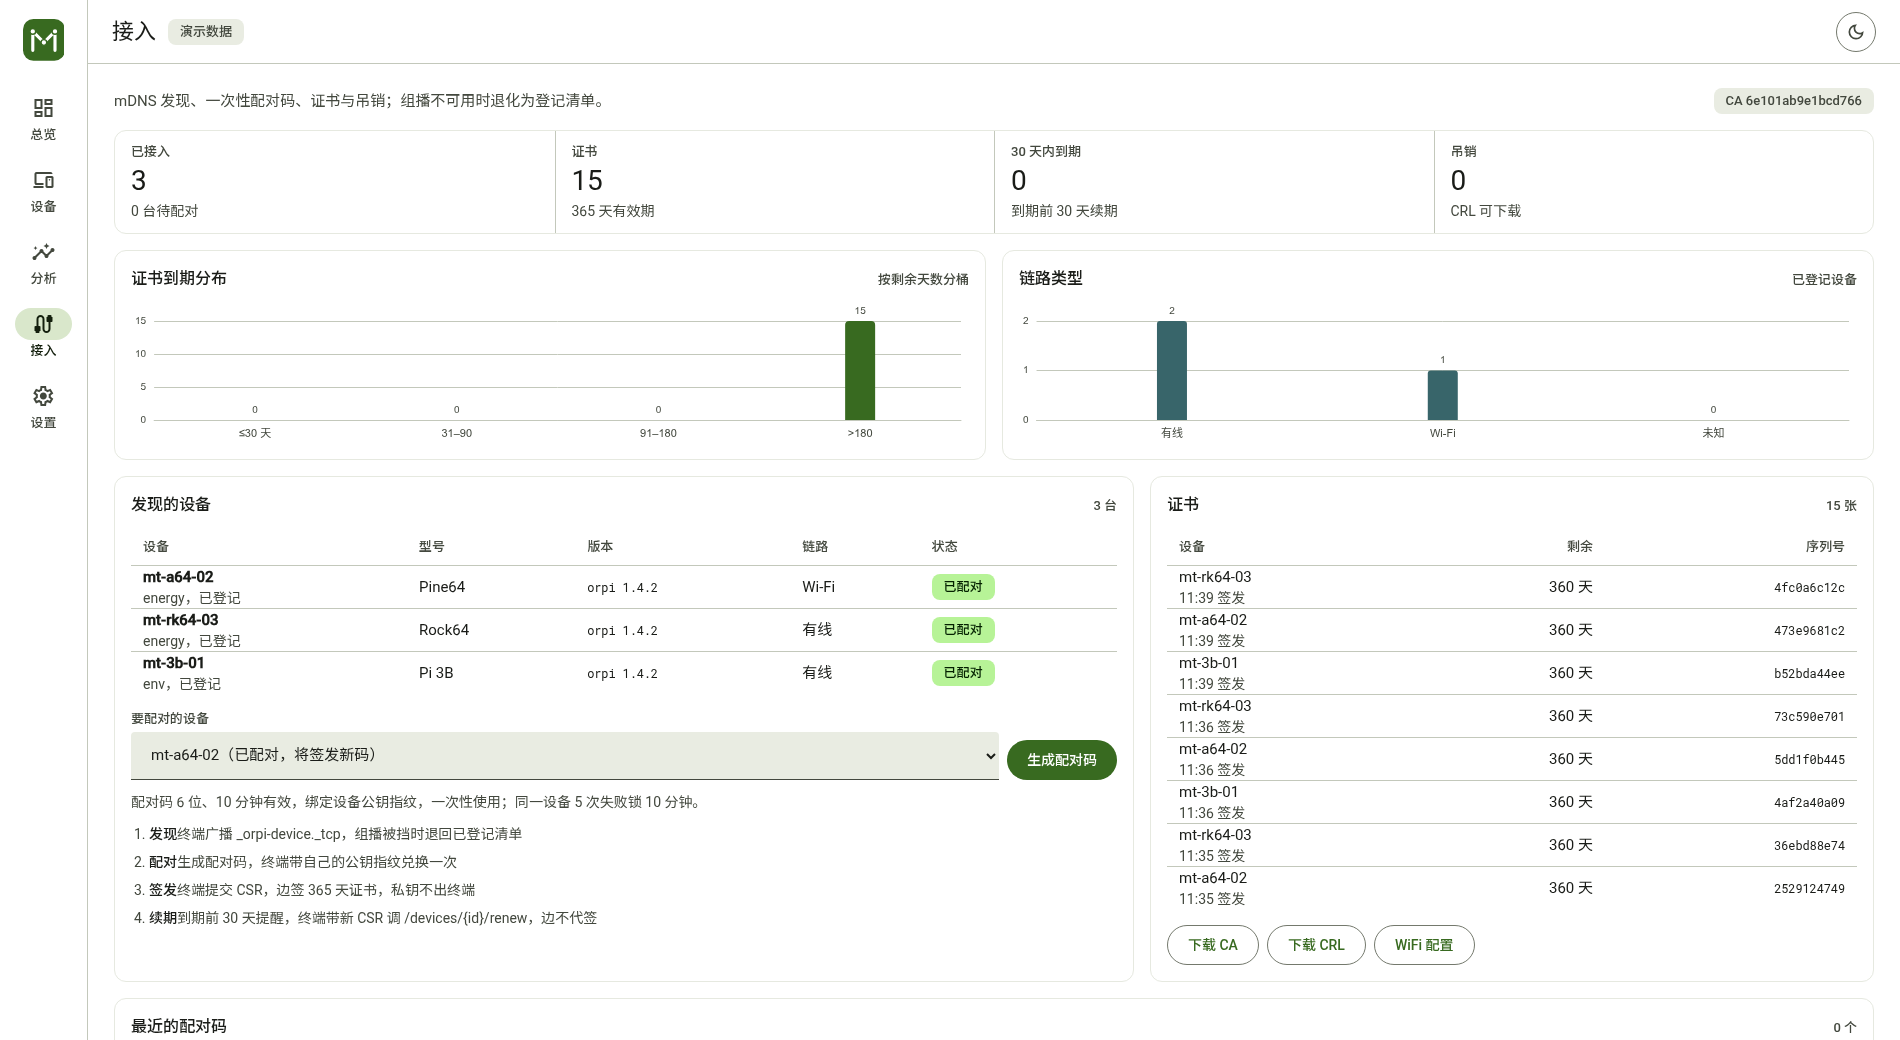
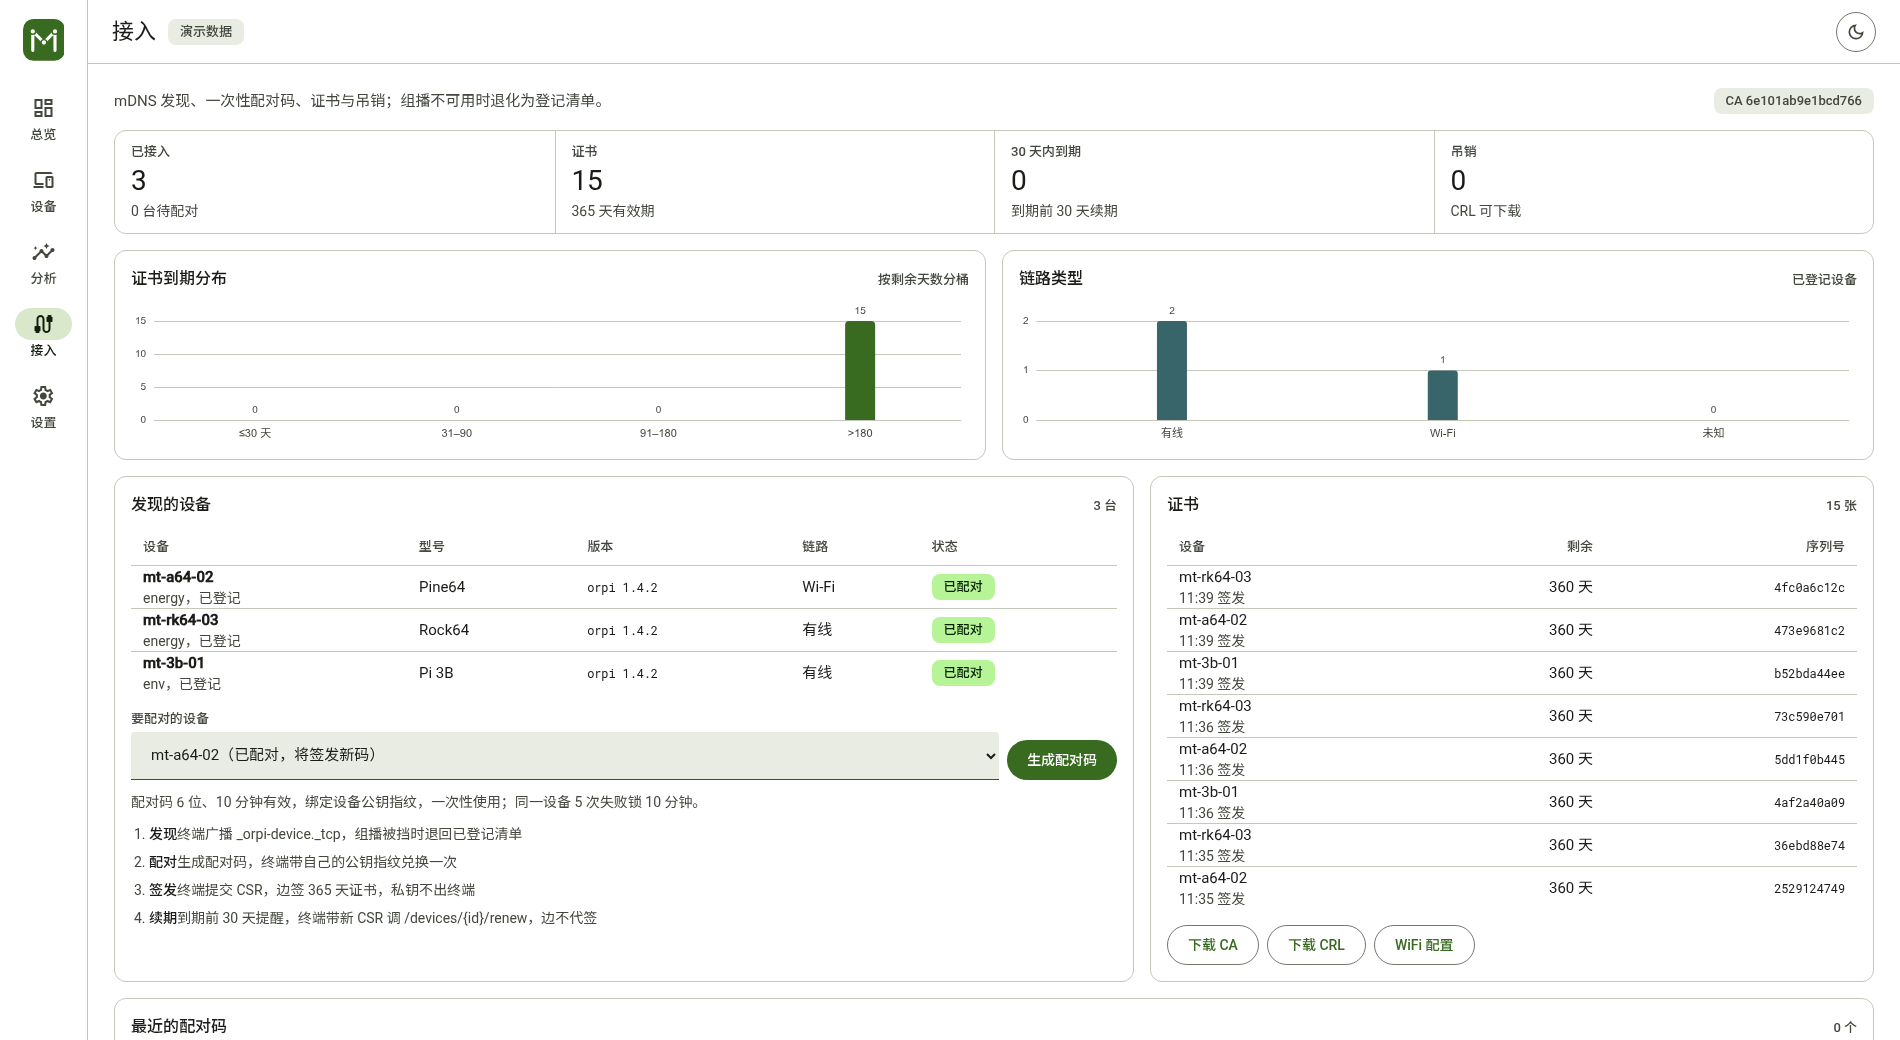
fix(web): 亮色卡片描边回到 token，index.html 不再吃缓存 (#22)
- 亮色卡片描边 #e6e9e0（1.23:1，硬编码）换成 outline-variant #c3c8bb
  （1.71:1，M3 outlined card 的规范值）；--md-card-bg 也改回
  var(--md-surface-container-low)，两套主题都不再写死颜色
- 暗色保持 filled 卡（描边透明，靠 #141414 对 #000 的色阶分层）
- Caddy 给 index.html 发 no-cache、/assets/* 发 immutable 长缓存：
  之前什么缓存头都没有，旧标签页/旧 index.html 会一直停在上一版
  （报上来的“亮色不是白”就是那一版的 #fbfcf6）
- 主题图标按主题重建并淡入 160 ms，避免“点了没反应”的错觉

diff --git a/web/src/styles/m3.css b/web/src/styles/m3.css
@@ -45,9 +45,9 @@
   --md-scrim: #000000;
   --md-shadow: #000000;
 
-  /* 组件别名：卡片纯白，靠 1px 描边和白色页面分开 */
-  --md-card-bg: #ffffff;
-  --md-card-border: #e6e9e0;
+  /* 组件别名：卡片纯白，靠 outline-variant 描边和白色页面分开 */
+  --md-card-bg: var(--md-surface-container-low);
+  --md-card-border: var(--md-outline-variant);
 
   /* ---- 严重度（只有异常才饱和） ---- */
   --md-ok: #386a20;
@@ -195,7 +195,8 @@
   --md-chart-cool: var(--md-tertiary);
   --md-chart-warm: var(--md-notice);
 
-  --md-card-bg: #141414;
+  /* 暗色靠色阶分层：卡片 #141414 对 #000 页面，不再描边 */
+  --md-card-bg: var(--md-surface-container-low);
   --md-card-border: transparent;
   --appbar-bg: var(--md-surface-container);
   --rail-bg: var(--md-surface-container);
@@ -819,7 +820,7 @@ h3 {
 }
 
 
-/* ---------------------------------------------------------------- 深色开关 */
+/* ---------------------------------------------------------------- 主题切换 */
 
 /* 主题切换：M3 outlined icon button，图标本身就是「切到哪边」 */
 .md-icon-outline {
@@ -842,6 +843,13 @@ h3 {
 }
 .md-icon-outline:active {
   background: color-mix(in srgb, var(--md-on-surface) 10%, transparent);
+}
+/* 换面时淡入 160 ms：图标瞬间切换容易被当成没点上 */
+@keyframes md-icon-in {
+  from { opacity: 0; }
+}
+.theme-toggle .ms-icon {
+  animation: md-icon-in 160ms var(--md-ease);
 }
 
 /* ---------------------------------------------------------------- 工具 */

diff --git a/web/src/App.vue b/web/src/App.vue
@@ -60,7 +60,7 @@ onMounted(async () => {
             :title="theme === 'dark' ? '切到亮色' : '切到暗色'"
             @click="toggleTheme"
           >
-            <Icon :name="theme === 'dark' ? 'light_mode' : 'dark_mode'" :size="20" />
+            <Icon :key="theme" :name="theme === 'dark' ? 'light_mode' : 'dark_mode'" :size="20" />
           </button>
         </div>
       </header>
